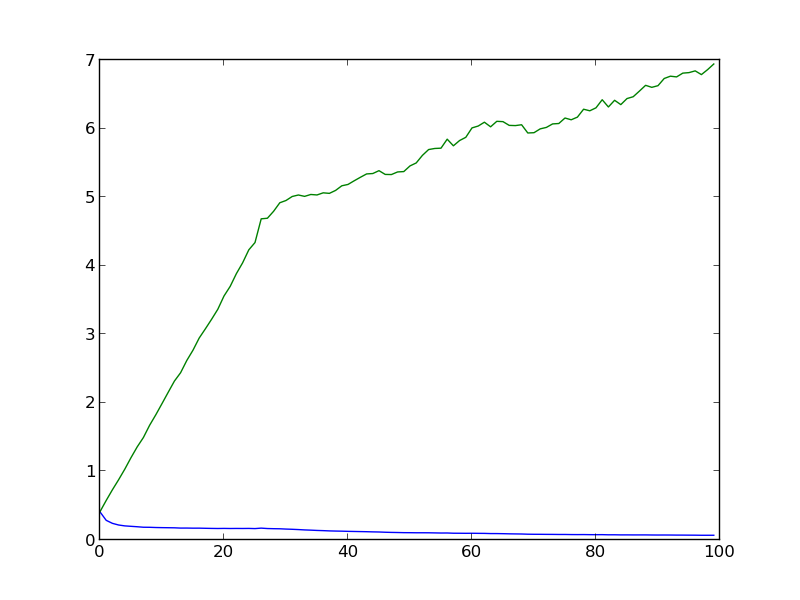
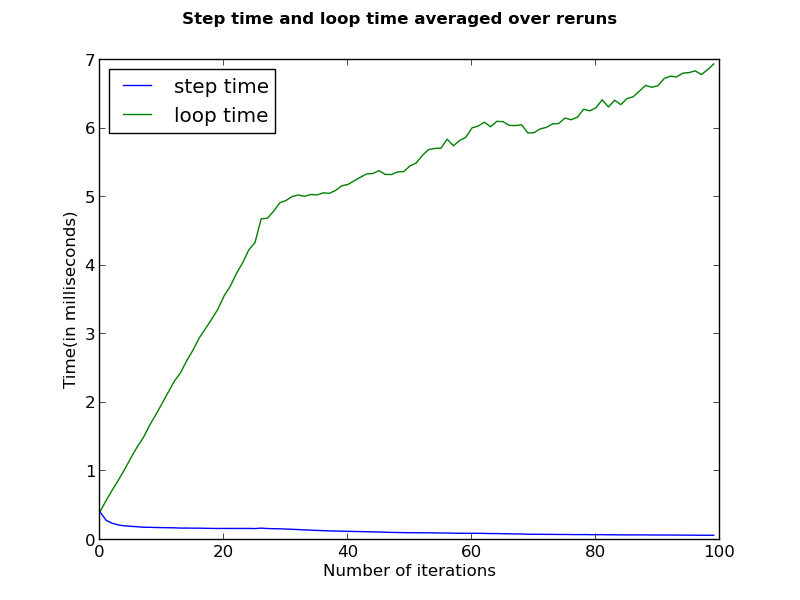
Modified the matplotlib script

diff --git a/scripts/g06_gen_plots.py b/scripts/g06_gen_plots.py
@@ -1,4 +1,4 @@
-from pylab import *
+import matplotlib.pyplot as plt
 
 datafile = open('../data/lab05_g06_data.csv')
 
@@ -36,10 +36,15 @@ for index in range(numIterations):
     avg_loop_rerun[index] = avg_loop_rerun[index]/numReruns
 
 x=range(numIterations)
-figure(0)
-plot(x,avg_step_rerun)
-plot(x,avg_loop_rerun)
-savefig("g06_lab09_plot01.png")
+fig1=plt.figure()
+plt.plot(x,avg_step_rerun,label="step time")
+plt.plot(x,avg_loop_rerun,label="loop time")
+plt.legend(loc="upper left")
+fig1.suptitle('Step time and loop time averaged over reruns', fontsize=12, fontweight='bold')
+ax=fig1.add_subplot(111)
+ax.set_xlabel("Number of iterations")
+ax.set_ylabel("Time(in milliseconds)")
+plt.savefig("g06_lab09_plot01.png")
 
 # A plot showing the step time averaged over all reruns (Y) for various iteration values (X).
 # Also, plot the collision time, velocity and poition update times averaged over all reruns (Y) for various iteration values (X) on the same graph. 
@@ -58,12 +63,17 @@ for index in range(numIterations):
     avg_velocity[index] = avg_velocity[index]/numReruns
     avg_position[index] = avg_position[index]/numReruns
 
-figure(1)
-plot(x,avg_step_rerun)
-plot(x,avg_collision)
-plot(x,avg_velocity)
-plot(x,avg_position)
-savefig("g06_lab09_plot02.png")
+fig2=plt.figure()
+plt.plot(x,avg_step_rerun,label="step time")
+plt.plot(x,avg_collision,label="collision time")
+plt.plot(x,avg_velocity,label="velocity update time")
+plt.plot(x,avg_position,label="position update time")
+plt.legend(loc="upper left")
+fig2.suptitle('Step time, collision time, velocy and position update time averaged over reruns', fontsize=12, fontweight='bold')
+ax=fig2.add_subplot(111)
+ax.set_xlabel("Number of iterations")
+ax.set_ylabel("Time(in milliseconds)")
+plt.savefig("g06_lab09_plot02.png")
 
 # Do the same plots as avg_rerun1, with the quantity on the Y axis 
 # now averaged over all iteration values (Y) for various reruns (X).
@@ -80,10 +90,15 @@ for index in range(numReruns):
     avg_loop_iter[index] = avg_loop_iter[index]/numIterations
 
 x=range(numReruns)
-figure(2)
-plot(x,avg_step_iter)
-plot(x,avg_loop_iter)
-savefig("g06_lab09_plot03.png")
+fig3=plt.figure()
+plt.plot(x,avg_step_iter,label="step time")
+plt.plot(x,avg_loop_iter,label="loop time")
+plt.legend(loc="upper left")
+fig3.suptitle('Step time and loop time averaged over iterations', fontsize=12, fontweight='bold')
+ax=fig3.add_subplot(111)
+ax.set_xlabel("Rerun number")
+ax.set_ylabel("Time(in milliseconds)")
+plt.savefig("g06_lab09_plot03.png")
 
 # Do the same plots as avg_rerun2, with the quantity on the Y axis 
 # now averaged over all iteration values (Y) for various reruns (X).
@@ -102,25 +117,30 @@ for index in range(numIterations):
     avg_velocity[index] = avg_velocity[index]/numIterations
     avg_position[index] = avg_position[index]/numIterations
 
-figure(3)
-plot(x,avg_step_iter)
-plot(x,avg_collision)
-plot(x,avg_velocity)
-plot(x,avg_position)
-savefig("g06_lab09_plot04.png")
+fig4=plt.figure()
+plt.plot(x,avg_step_iter,label="step time")
+plt.plot(x,avg_collision,label="collision time")
+plt.plot(x,avg_velocity,label="velocity update time")
+plt.plot(x,avg_position,label="position update time")
+plt.legend(loc="upper left")
+fig4.suptitle('Step time, collision time, velocity and position update time averaged over iterations', fontsize=12, fontweight='bold')
+ax=fig4.add_subplot(111)
+ax.set_xlabel("Rerun number")
+ax.set_ylabel("Time(in milliseconds)")
+plt.savefig("g06_lab09_plot04.png")
 
-# Consider the variation in time over reruns to be the deviation in the time measurement 
-# and plot the step time for various iteration values with error bars corresponding to the deviation. 
+# # Consider the variation in time over reruns to be the deviation in the time measurement 
+# # and plot the step time for various iteration values with error bars corresponding to the deviation. 
 
-deviation_step = [0]*numIterations
+# deviation_step = [0]*numIterations
 
-for index in range(numValues):
-    deviation_step[iteration_value[index]-1] = deviation_step[iteration_value[index]-1] + (step_time[index] - avg_step_rerun[iteration_value[index]-1])**2
+# for index in range(numValues):
+#     deviation_step[iteration_value[index]-1] = deviation_step[iteration_value[index]-1] + (step_time[index] - avg_step_rerun[iteration_value[index]-1])**2
 
-for index in range(numIterations):
-    deviation_step[index] = (deviation_step[index]/numReruns)**(0.5)
+# for index in range(numIterations):
+#     deviation_step[index] = (deviation_step[index]/numReruns)**(0.5)
 
-x=range(numIterations)
-figure(5)
-errorbar(x,avg_step_rerun,yerr=deviation_step)
-savefig("g06_lab09_plot05.png")
+# x=range(numIterations)
+# figure(5)
+# errorbar(x,avg_step_rerun,yerr=deviation_step)
+# savefig("g06_lab09_plot05.png")
